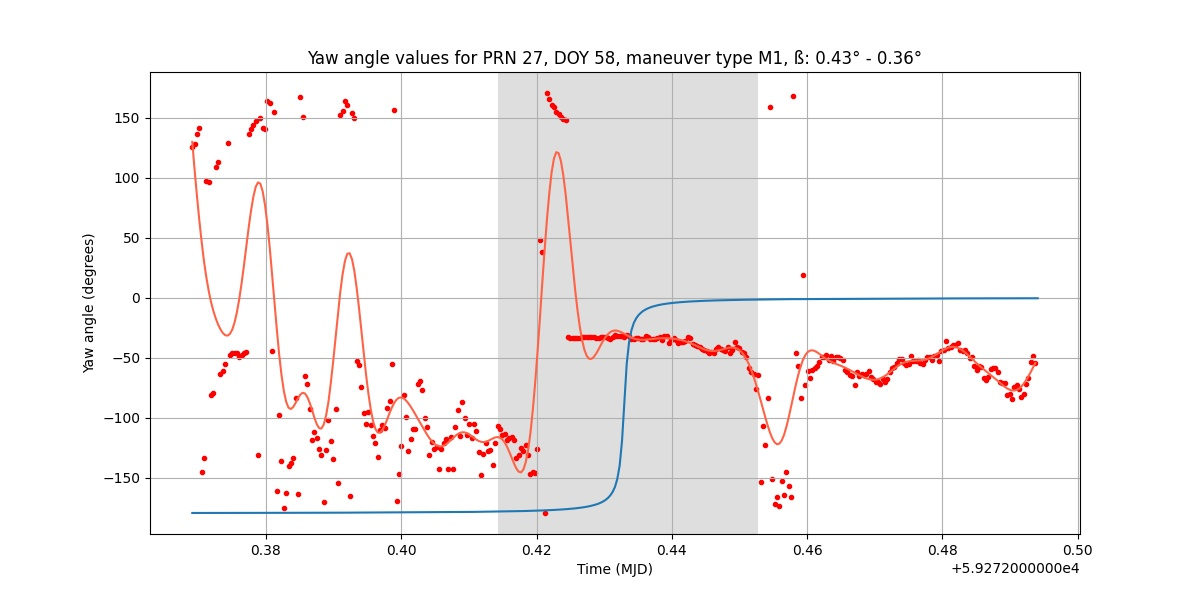
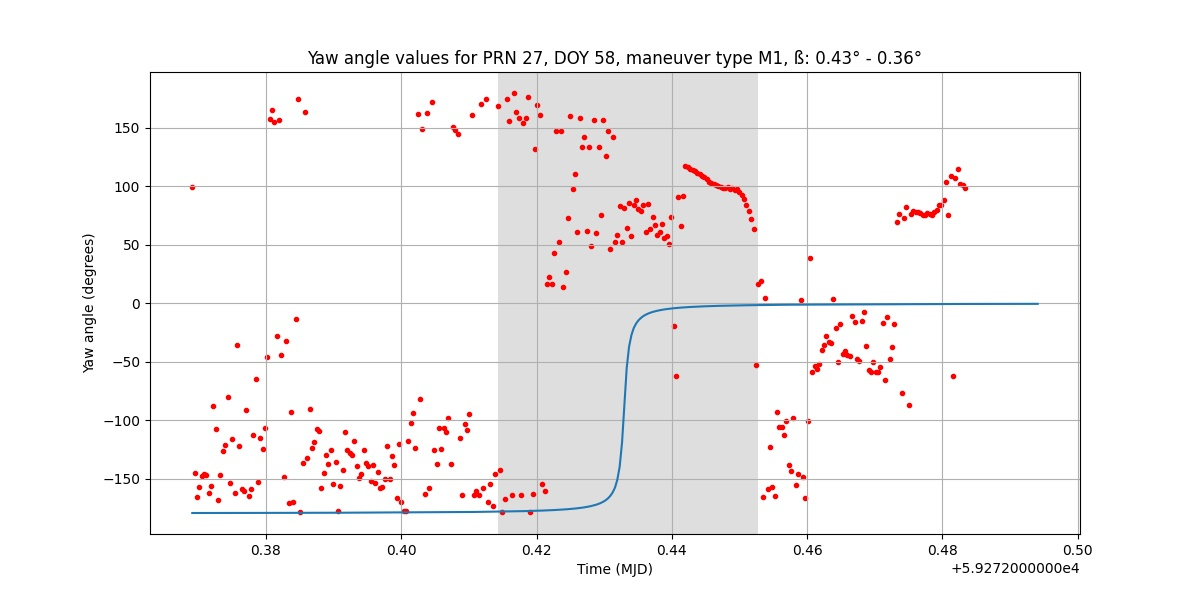
Added errorbars

diff --git a/python/estimation.py b/python/estimation.py
@@ -1,4 +1,5 @@
 import constants
+import errorbars
 import utils
 import numpy as np
 from scipy.linalg import block_diag
@@ -85,7 +86,11 @@ def solveLSE(A, rk):
     AtA = A.transpose().dot(A)
     x = np.linalg.inv(AtA).dot(A.transpose()).dot(rk)
     yaw = np.rad2deg(np.arctan2(x[1], x[0]))
-    return yaw
+
+    errors = errorbars.computeFormalError(A, rk, x)
+    yaw_error = np.rad2deg(np.arctan2(errors[1], errors[0]))
+
+    return yaw, yaw_error
 
 
 def solveLSE2(A, rk):
@@ -96,15 +101,18 @@ def solveLSE2(A, rk):
     :param rk: measurements vector (residual)
     :return: yaw estimated from LSE solution
     """
-    y1 = solveLSE(A, rk)
+    y1, _ = solveLSE(A, rk)
     A2 = np.append(A, [[2 * constants.PCO_x * np.cos(np.deg2rad(y1)),
                         2 * constants.PCO_x * np.sin(np.deg2rad(y1))]], axis=0)
     r2 = np.append(rk, [2 * (constants.PCO_x ** 2)], axis=0)
     AtA = A2.transpose().dot(A2)
     x = np.linalg.inv(AtA).dot(A2.transpose()).dot(r2)
 
+    errors = errorbars.computeFormalError(A2, r2, x)
+    yaw_error = np.rad2deg(np.arctan2(errors[1], errors[0]))
+
     y2 = np.rad2deg(np.arctan2(x[1], x[0]))
-    return y2
+    return y2, yaw_error
 
 
 def solveLSE3(A, rk):
@@ -115,7 +123,7 @@ def solveLSE3(A, rk):
     :param rk: measurements vector (residual)
     :return: yaw estimated from LSE solution
     """
-    y1 = solveLSE(A, rk)
+    y1, _ = solveLSE(A, rk)
     A2 = np.append(A, [[2 * constants.PCO_x * np.cos(np.deg2rad(y1)),
                         2 * constants.PCO_x * np.sin(np.deg2rad(y1))]], axis=0)
     b = np.ones((len(rk), 1))
@@ -127,8 +135,11 @@ def solveLSE3(A, rk):
     AtA = A2.transpose().dot(A2)
     x = np.linalg.inv(AtA).dot(A2.transpose()).dot(r2)
 
+    errors = errorbars.computeFormalError(A2, r2, x)
+    yaw_error = np.rad2deg(np.arctan2(errors[1], errors[0]))
+
     y2 = np.rad2deg(np.arctan2(x[1], x[0]))
-    return y2
+    return y2, yaw_error
 
 
 def solveLSEModel1(residualData, orbitData, stationsData):
@@ -141,10 +152,11 @@ def solveLSEModel1(residualData, orbitData, stationsData):
     """
     epochs = utils.getEpochsArray(residualData)
     yaw = []
+    errors = []
 
     for epoch in epochs:
         A, rk = computeBlock1DesignMatrix(residualData, orbitData, stationsData, epoch)
-        y = solveLSE(A, rk)
+        y, error = solveLSE(A, rk)
 
         try:
             if np.sqrt((y-yaw[-1])**2) > 250:
@@ -153,8 +165,8 @@ def solveLSEModel1(residualData, orbitData, stationsData):
             pass
 
         yaw.append(y) # TODO see why the algorithm seems to estimate -yaw instead of yaw ?!
-        # yaw.append(np.rad2deg(np.arctan(x[1]/ x[0])))
-    return (epochs, yaw)
+        errors.append(error)
+    return (epochs, yaw, errors)
 
 
 def solveLSEModel2(residualData, orbitData, stationsData):
@@ -167,11 +179,12 @@ def solveLSEModel2(residualData, orbitData, stationsData):
     """
     epochs = utils.getEpochsArray(residualData)
     yaw = []
+    errors = []
 
     for epoch in epochs:
         A, rk = computeBlock1DesignMatrix(residualData, orbitData, stationsData, epoch)
 
-        y2 = solveLSE2(A, rk)
+        y2, error = solveLSE2(A, rk)
 
         try:
             if np.sqrt((y2 - yaw[-1]) ** 2) > 250:
@@ -180,8 +193,9 @@ def solveLSEModel2(residualData, orbitData, stationsData):
             pass
 
         yaw.append(y2)
+        errors.append(error)
 
-    return (epochs, yaw)
+    return (epochs, yaw, errors)
 
 
 def solveLSEModel3(residualData, orbitData, stationsData):
@@ -196,11 +210,12 @@ def solveLSEModel3(residualData, orbitData, stationsData):
     epochs = utils.getEpochsArray(residualData)
     epochs_final = []
     yaw = []
+    errors = []
 
     for epoch in epochs:
         A, rk = computeBlock1DesignMatrix(residualData, orbitData, stationsData, epoch)
         try:
-            y2 = solveLSE3(A, rk)
+            y2, error = solveLSE3(A, rk)
 
             try:
                 if np.sqrt((y2 - yaw[-1]) ** 2) > 250:
@@ -210,9 +225,12 @@ def solveLSEModel3(residualData, orbitData, stationsData):
 
             yaw.append(y2)
             epochs_final.append(epoch)
+            errors.append(error)
+
         except np.linalg.LinAlgError:
             print("Singular matrix at epoch {}.".format(epoch))
-    return (epochs_final, yaw)
+
+    return (epochs_final, yaw, errors)
 
 
 def computeBlock1DesignMatrixWindow(residualData, orbitData, stationsData, startEpoch, endEpoch):
@@ -339,38 +357,46 @@ def solveLSE4(residualData, orbitData, stationsData, startEpoch, endEpoch, yaw_i
     x = np.linalg.inv(AtA).dot(A.transpose()).dot(rk)
 
     yaw = []
+    yaw_error = []
+
+    errors = errorbars.computeFormalError(A, rk, x)
+    print(errors)
+
     for i in range(0, Ne*2, 2):
         x0 = x[i]
         y0 = x[i+1]
         yaw.append(np.rad2deg(np.arctan2(y0, x0)))
+        yaw_error.append(np.rad2deg(np.arctan2(errors[i+1], errors[i])))
 
-    return epochs, yaw
+    return epochs, yaw, yaw_error
 
 
-def final4(residualData, orbitData, stationsData, Ne=5):
+def solveLSEModel4(residualData, orbitData, stationsData, Ne=5):
     """
     This function iterates through groups of epochs (grouped in bins with Ne epochs each).
     For each bin the fourth model estimation is applied. This can also be applied for all available epochs
     at once yielding more precise results than applying it for smaller time intervals.
     """
-    # epochs = utils.getEpochsArray(residualData)
-    epochs, yaw_init = solveLSEModel3(residualData, orbitData, stationsData)
+    epochs, yaw_init, _ = solveLSEModel3(residualData, orbitData, stationsData)
     yaw_init = filterLowpass(yaw_init, Wn=0.1, N=4)
 
     yaw = []
     epoch_final = []
+    errors = []
     for epoch in epochs[::Ne]:
+        print("RUNNING")
         try:
             startEpoch = epoch
             endEpoch = epochs[epochs.index(epoch)+Ne]
-            e, y = solveLSE4(residualData, orbitData, stationsData, startEpoch, endEpoch, yaw_init)
+            e, y, error = solveLSE4(residualData, orbitData, stationsData, startEpoch, endEpoch, yaw_init)
 
             yaw = yaw + y
             epoch_final = epoch_final + e
+            errors = errors + error
         except (np.linalg.LinAlgError, IndexError):
             print("Singular A matrix for epoch {}".format(epoch))
 
-    return epoch_final, yaw
+    return epoch_final, yaw, errors
 
 
 

diff --git a/python/main.py b/python/main.py
@@ -37,27 +37,28 @@ if __name__ == '__main__':
 
 
     # Estimate yaw from simulated residuals
-    (epochs, yaw) = estimation.solveLSEModel1(residualDataSimulated, orbitData, stationsData)
+    (epochs, yaw, errors) = estimation.solveLSEModel1(residualDataSimulated, orbitData, stationsData)
     graphics.plotEstimatedYaw(epochs, yaw, orbitData, year, doy, prn, man, extension="_sim_model1")
 
-    (epochs, yaw) = estimation.solveLSEModel2(residualDataSimulated, orbitData, stationsData)
+    (epochs, yaw, errors) = estimation.solveLSEModel2(residualDataSimulated, orbitData, stationsData)
     graphics.plotEstimatedYaw(epochs, yaw, orbitData, year, doy, prn, man, extension="_sim_model2")
 
     # Estimate yaw from real residuals
-    graphics.plotResiduals(residualDataReal, stationsData, year, doy, prn, man)
-    (epochs, yaw) = estimation.solveLSEModel1(residualDataReal, orbitData, stationsData)
-    graphics.plotEstimatedYaw(epochs, yaw, orbitData, year, doy, prn, man, extension="_real_model1")
+    #graphics.plotResiduals(residualDataReal, stationsData, year, doy, prn, man)
+    #(epochs, yaw, errors) = estimation.solveLSEModel1(residualDataReal, orbitData, stationsData)
+    # graphics.plotEstimatedYaw(epochs, yaw, orbitData, year, doy, prn, man, extension="_real_model1")
+    #graphics.plotEstimatedYawErrorbars(epochs, yaw, errors, orbitData, year, doy, prn, man, extension="_real_model1")
 
-    (epochs, yaw) = estimation.solveLSEModel2(residualDataReal, orbitData, stationsData)
+    (epochs, yaw, errors) = estimation.solveLSEModel2(residualDataReal, orbitData, stationsData)
     graphics.plotEstimatedYaw(epochs, yaw, orbitData, year, doy, prn, man, extension="_real_model2")
+    graphics.plotEstimatedYawErrorbars(epochs, yaw, errors, orbitData, year, doy, prn, man, extension="_real_model2_bars")
 
-    (epochs, yaw) = estimation.solveLSEModel3(residualDataReal, orbitData, stationsData)
+    (epochs, yaw, errors) = estimation.solveLSEModel3(residualDataReal, orbitData, stationsData)
     graphics.plotEstimatedYaw(epochs, yaw, orbitData, year, doy, prn, man, extension="_real_model3")
+    graphics.plotEstimatedYawErrorbars(epochs, yaw, errors, orbitData, year, doy, prn, man, extension="_real_model3_bars")
 
-    (epochs, yaw) = estimation.solveLSEModel3(residualDataReal, orbitData, stationsData)
-    graphics.plotEstimatedYaw(epochs, yaw, orbitData, year, doy, prn, man, extension="_real_model3")
-
-    (epochs, yaw) = estimation.final4(residualDataReal, orbitData, stationsData, Ne=len(epochs)-1)
+    (epochs, yaw, errors) = estimation.solveLSEModel4(residualDataReal, orbitData, stationsData, Ne=30)
     graphics.plotEstimatedYaw(epochs, yaw, orbitData, year, doy, prn, man, extension="_real_model4")
+    graphics.plotEstimatedYawErrorbars(epochs, yaw, errors, orbitData, year, doy, prn, man, extension="_real_model4_bars")
 
 

diff --git a/python/graphics.py b/python/graphics.py
@@ -85,7 +85,50 @@ def plotEstimatedYaw(epochs, yaw, orbitData, year=21, doy=58, prn=27, man="M1", 
     plt = plotNominalYaw(orbitData, year, doy, prn, man, savefig=False)
     plt.scatter(epochs, yaw, marker='.', color='r', zorder=1)
 
+    plt.savefig(figPath)
+
+
+
+def plotEstimatedYawInterpolated(epochs, yaw, orbitData, year=21, doy=58, prn=27, man="M1", extension=""):
+    """
+    This function plots the estimated yaw values over the nominal ones read from .orb data file.
+    :param epochs: epochs over which yaw was estimated
+    :param yaw: estimated yaw values in degrees
+    :param orbitData: dictionary containing data read from .orb file, as created by utils.getOrbData()
+    :param year: year - used to construct .res figure name
+    :param doy: day of year - used to construct figure name
+    :param prn: satellite prn code - used to construct figure name
+    :param man: maneuver type - used to construct figure name
+    :return:
+    """
+    figName = str(year) + "0" + str(doy) + "0" + man + "G" + str(prn) + "_yawest{}.jpg".format(extension)
+    figPath = os.path.join(constants.FIGS, figName)
+    plt = plotNominalYaw(orbitData, year, doy, prn, man, savefig=False)
+    plt.scatter(epochs, yaw, marker='.', color='r', zorder=1)
+
     y_filt = estimation.filterLowpass(yaw, Wn=0.1, N=4)
     plt.plot(epochs, y_filt, color='tomato')
+
+    plt.savefig(figPath)
+
+
+def plotEstimatedYawErrorbars(epochs, yaw, errors, orbitData, year=21, doy=58, prn=27, man="M1", extension=""):
+    """
+    This function plots the estimated yaw values over the nominal ones read from .orb data file.
+    :param epochs: epochs over which yaw was estimated
+    :param yaw: estimated yaw values in degrees
+    :param orbitData: dictionary containing data read from .orb file, as created by utils.getOrbData()
+    :param year: year - used to construct .res figure name
+    :param doy: day of year - used to construct figure name
+    :param prn: satellite prn code - used to construct figure name
+    :param man: maneuver type - used to construct figure name
+    :return:
+    """
+    figName = str(year) + "0" + str(doy) + "0" + man + "G" + str(prn) + "_yawest{}.jpg".format(extension)
+    figPath = os.path.join(constants.FIGS, figName)
+    plt = plotNominalYaw(orbitData, year, doy, prn, man, savefig=False)
+    plt.errorbar(epochs[::5], yaw[::5], yerr=errors[::5])
+    #plt.errorbar(epochs, yaw, yerr=errors)
+    plt.scatter(epochs, yaw, marker='.', color='r', zorder=1)
 
     plt.savefig(figPath)

diff --git a/python/errorbars.py b/python/errorbars.py
@@ -1,0 +1,31 @@
+import constants
+import numpy as np
+import utils
+
+
+def computeFormalError(A, r, x):
+    """
+    This function computes the formal errors (error bars) for a LSE estimation linear system.
+    It uses as inputs the design matrix A, the data vector r (containing residuals)
+    and the estimated variables vector x.
+    """
+
+    #print(np.argwhere(np.isnan(A)))
+
+    n_p = len(x) # number of unknowns - number of estimated variables
+    n = len(r)  # number of observations (data samples) - per epoch
+    e = r - A.dot(x) # estimation residuals vector
+
+    m = (e.dot(e)) / (n - n_p)
+    m0 = np.sqrt(m * np.sign(m))
+
+    Q = np.linalg.inv(A.transpose().dot(A))
+
+    eps = []
+    diag = list(np.diagonal(Q))
+    for item in diag:
+        e = m0 * np.sqrt(item*np.sign(item))
+        eps.append(e)
+    print(np.array(eps))
+
+    return eps

diff --git a/python/constants.py b/python/constants.py
@@ -1,5 +1,6 @@
 import os
 
+
 # path to directory where res and orb files are stored
 OUT = os.path.join("..", "data")
 
